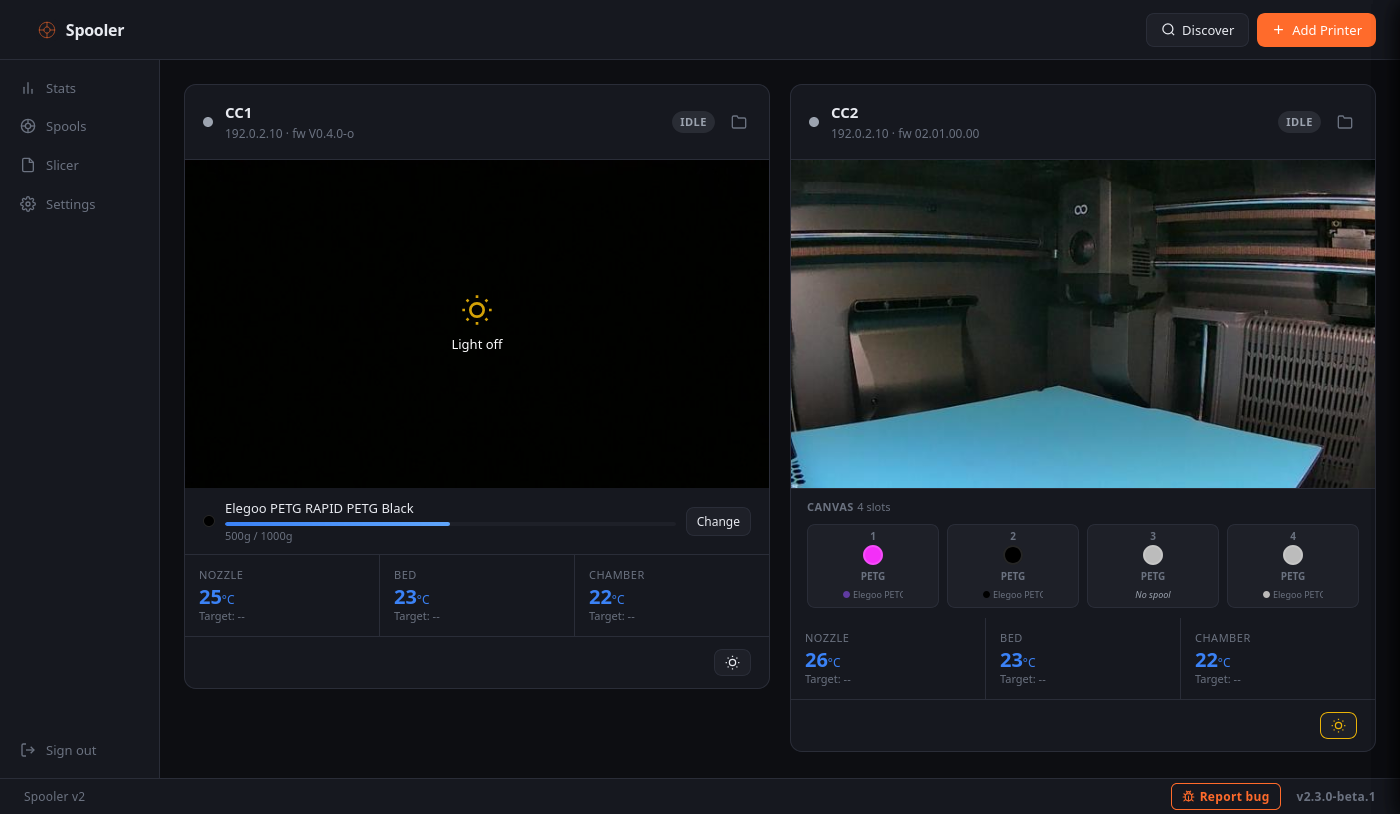
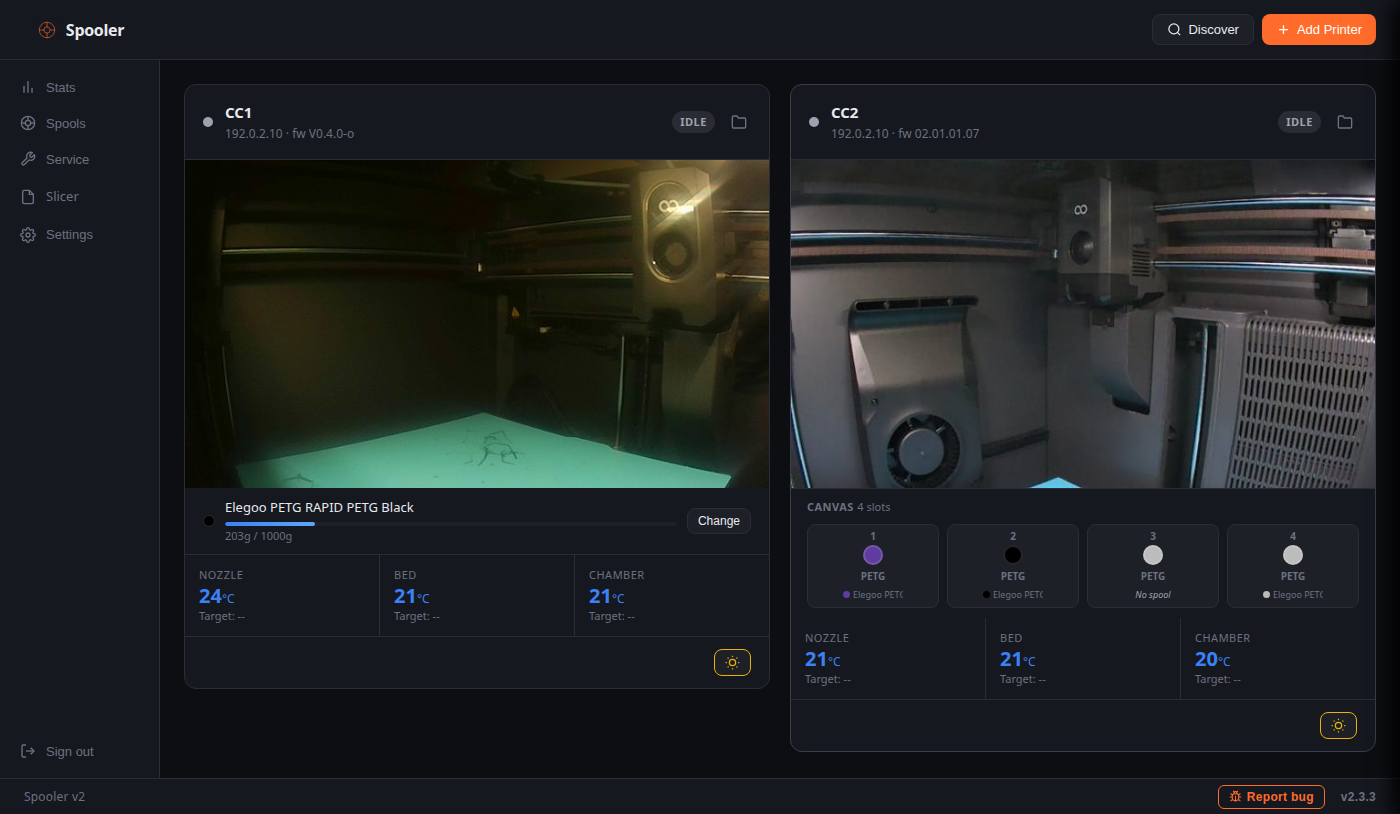
Docs: new screenshots and a short demo GIF

diff --git a/docs/index.html b/docs/index.html
@@ -114,7 +114,7 @@
       <div class="card"><h3>New version notice (optional)</h3><p>Checks GitHub once a day for a newer release and shows a small notice. Off by default; nothing about you is sent.</p></div>
     </div>
     <div class="two" style="margin-top:24px">
-      <img src="images/spools.png" alt="Spool list with printer assignment and remaining filament" loading="lazy">
+      <img src="images/spools.png" alt="Spools stacked by brand, material and colour, with search and filters" loading="lazy">
       <img src="images/stats.png" alt="Statistics: prints, success rate, print time and filament per day" loading="lazy">
     </div>
   </section>

diff --git a/README.md b/README.md
@@ -9,11 +9,13 @@ Local web GUI for **Elegoo Centauri Carbon** FDM 3D printers (CC1 and CC2). Moni
 
 > **Disclaimer.** Spooler is an independent project and is not affiliated with, endorsed by, or supported by ELEGOO, Prusa Research, or the Klipper/Moonraker projects. ELEGOO, Centauri Carbon, Prusa, PrusaLink, Klipper and Moonraker are trademarks or names of their respective owners and are used here only to say which printers Spooler works with.
 
+![Short demo: dashboard, spools grouped by type, statistics](docs/images/demo.gif)
+
 ![Dashboard with a CC1 and a CC2: live camera, temperatures, Canvas slots and light control](docs/images/dashboard.png)
 
 | Filament spools (Spoolman) | Stats and history |
 |---|---|
-| ![Spools list with printer assignment and remaining filament](docs/images/spools.png) | ![Stats: prints, success rate, print time and filament per day](docs/images/stats.png) |
+| ![Spools stacked by brand, material and colour, with search and filters](docs/images/spools.png) | ![Stats: prints, success rate, print time and filament per day](docs/images/stats.png) |
 
 > **Branches**
 > - `main` — latest stable release. This is what the Docker image (`ghcr.io/tharje/spooler-v2:latest`) is built from.
